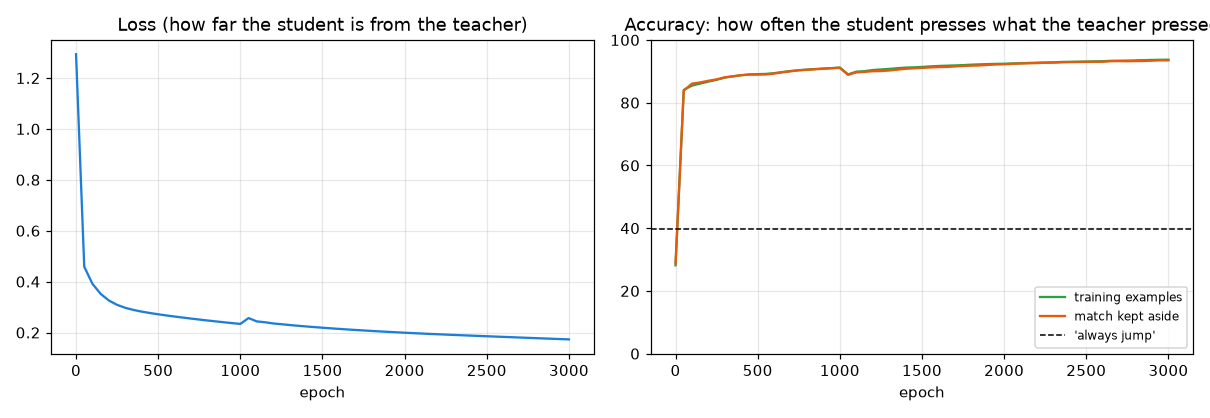
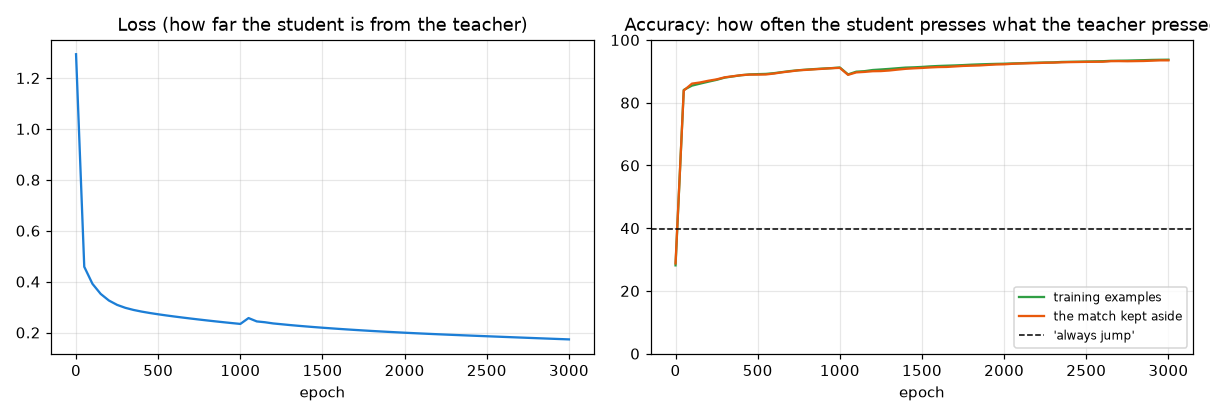
Lesson 5: name what is kept aside when there is only one match

Changed region(s): [[0.8256, 0.6842, 0.9785, 0.8397]]

diff --git a/lessons/05-imitation/train.py b/lessons/05-imitation/train.py
@@ -85,15 +85,17 @@ def main():
     if len(set(match)) > 1:
         val = match == match.max()
         X_train, y_train, X_val, y_val = X[~val], y[~val], X[val], y[val]
+        aside = "the match kept aside"
     else:
         cut = int(len(y) * 0.8)
         X_train, y_train, X_val, y_val = X[:cut], y[:cut], X[cut:], y[cut:]
+        aside = "the last 20% of the match, kept aside"
 
     print("\nTraining the student (6 -> 16 -> 3)...")
     student = Student()
     history = np.array(student.train(X_train, y_train, X_val=X_val, y_val=y_val), dtype=float)
     print(f"Accuracy: {history[-1, 2]:.1%} on the training examples, "
-          f"{history[-1, 3]:.1%} on the match kept aside")
+          f"{history[-1, 3]:.1%} on {aside}")
 
     print(f"\nThe student plays {N_TEST_MATCHES} new matches on its own:")
     scores = [play(student, seed=5000 + s) for s in range(N_TEST_MATCHES)]
@@ -120,7 +122,7 @@ def main():
     axs[0].plot(history[:, 0], history[:, 1], c="#1c7ed6")
     axs[0].set_title("Loss (how far the student is from the teacher)")
     axs[1].plot(history[:, 0], history[:, 2] * 100, c="#2f9e44", label="training examples")
-    axs[1].plot(history[:, 0], history[:, 3] * 100, c="#e8590c", label="match kept aside")
+    axs[1].plot(history[:, 0], history[:, 3] * 100, c="#e8590c", label=aside)
     axs[1].axhline(trap * 100, c="k", ls="--", lw=1, label=f"'always {ACTION_NAMES[counts.argmax()]}'")
     axs[1].set_title("Accuracy: how often the student presses what the teacher pressed")
     axs[1].set_ylim(0, 100)
